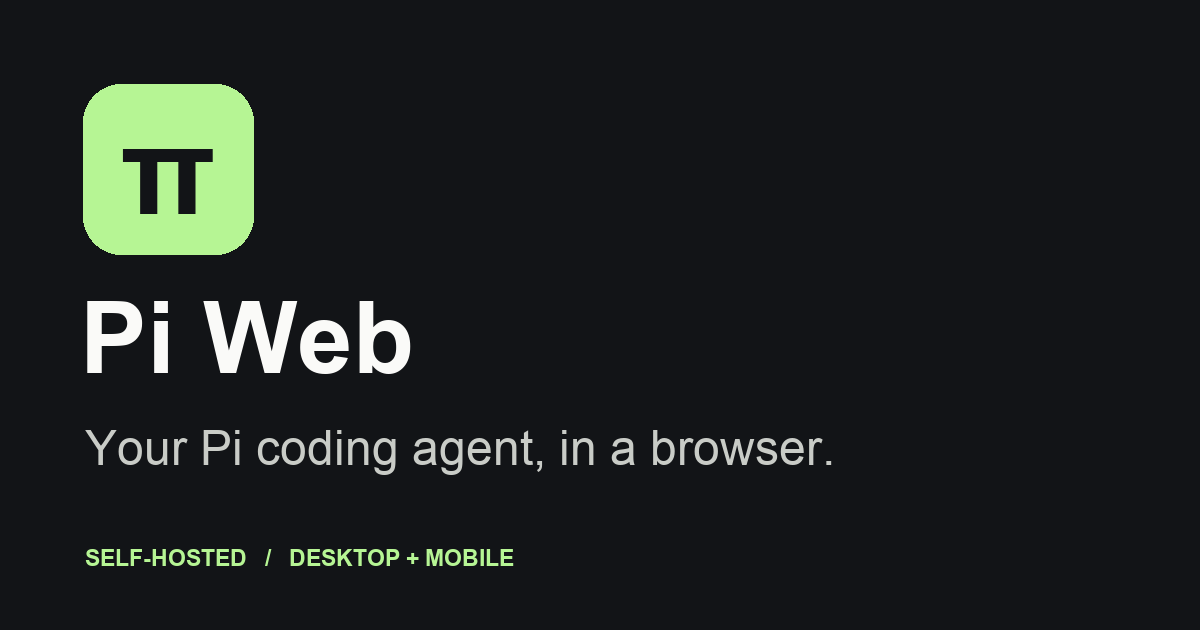
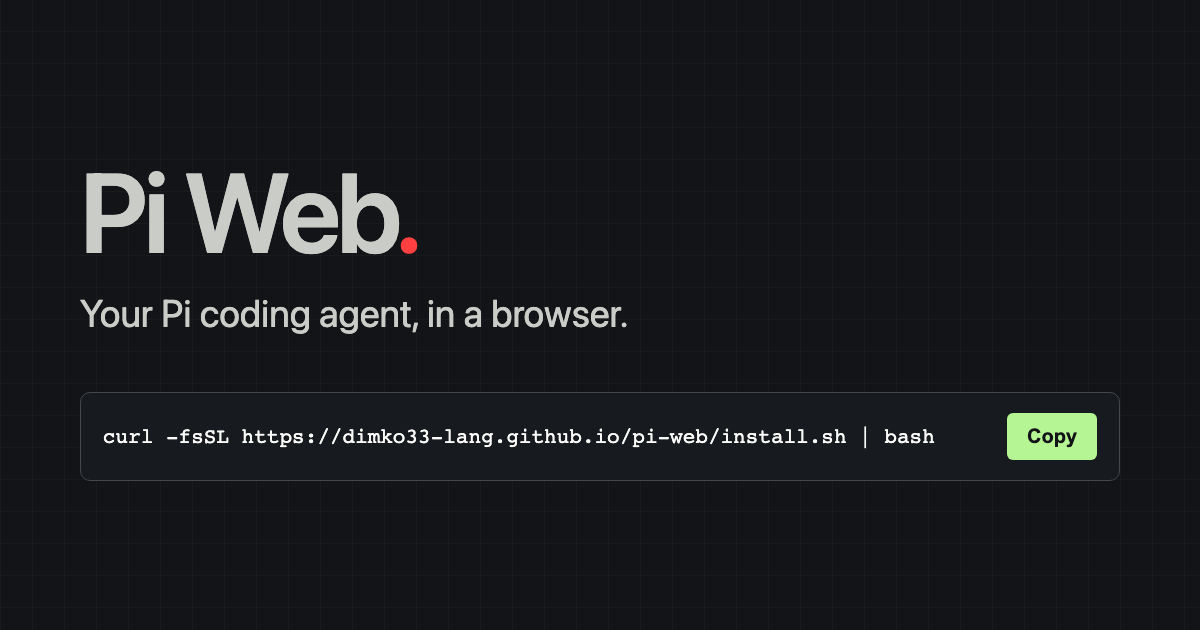
Render the share image from the public install card

diff --git a/docs/index.html b/docs/index.html
@@ -2,7 +2,9 @@
 <html lang="en"><head><meta charset="utf-8"><meta name="viewport" content="width=device-width,initial-scale=1"><title>Pi Web — your coding agent, in a browser</title>
 <meta name="description" content="Self-host a browser interface for the Pi coding agent. Open it from your laptop or phone.">
 <link rel="canonical" href="https://dimko33-lang.github.io/pi-web/">
-<meta property="og:type" content="website"><meta property="og:title" content="Pi Web"><meta property="og:description" content="Your Pi coding agent, in a browser. Self-hosted, for desktop and mobile."><meta property="og:url" content="https://dimko33-lang.github.io/pi-web/"><meta property="og:image" content="https://dimko33-lang.github.io/pi-web/social-preview.png"><meta property="og:image:type" content="image/png"><meta property="og:image:width" content="1200"><meta property="og:image:height" content="630"><meta property="og:image:alt" content="Pi Web — your Pi coding agent, in a browser."><meta name="twitter:card" content="summary_large_image"><meta name="twitter:image" content="https://dimko33-lang.github.io/pi-web/social-preview.png">
+<meta property="og:type" content="website"><meta property="og:title" content="Pi Web"><meta property="og:description" content="Your Pi coding agent, in a browser. Install it on your own machine with one command."><meta property="og:url" content="https://dimko33-lang.github.io/pi-web/">
+<meta property="og:image" content="https://dimko33-lang.github.io/pi-web/social-preview.png?v=2"><meta property="og:image:type" content="image/png"><meta property="og:image:width" content="1200"><meta property="og:image:height" content="630"><meta property="og:image:alt" content="The Pi Web installation card: the name with a red period and the one-line install command on a dark grid.">
+<meta name="twitter:card" content="summary_large_image"><meta name="twitter:image" content="https://dimko33-lang.github.io/pi-web/social-preview.png?v=2">
 <style>*{box-sizing:border-box}body{margin:0;background-color:#121417;background-image:linear-gradient(0deg,#ffffff07 1px,transparent 1px),linear-gradient(90deg,#ffffff07 1px,transparent 1px);background-size:32px 32px;color:#fafaf8;font:18px/1.55 system-ui,sans-serif}main{max-width:780px;padding:clamp(42px,10vh,120px) 24px;margin:auto}h1{font-size:clamp(30px,4vw,42px);font-weight:550;color:#c9ccc7;line-height:1.12;margin:18px 0 12px;letter-spacing:-.035em}.title-dot{color:#ff4040}p{color:#c9ccc7;max-width:55ch}.lead{font-size:clamp(18px,2.5vw,22px);margin:0}a{color:#b6f594}.button{display:inline-block;background:#b6f594;color:#121417;border-radius:8px;text-decoration:none;font-weight:650;padding:11px 18px;margin:10px 18px 10px 0}footer{margin-top:48px;color:#a2a69e;font-size:14px}footer small{display:block;margin-top:.75rem;max-width:65ch;font-size:.8125rem}.install{display:flex;align-items:center;gap:14px;border:1px solid #44484d;border-radius:10px;padding:14px;margin:26px 0 8px}.install code{flex:1;min-width:0;overflow-wrap:anywhere;font:15px/1.6 monospace}.install button{background:#b6f594;color:#121417;border:0;border-radius:6px;padding:10px 14px;font-weight:bold;cursor:pointer}.hint{font-size:14px;margin:0 0 20px}</style></head>
 <body><main><h1>Pi Web<span class="title-dot" aria-hidden="true">.</span></h1><p class="lead">Your Pi coding agent, in a browser.</p><p>Run Pi Web on your own machine and open the chat from a laptop or phone. One command prepares Pi and the web interface. No keys or login during installation. Set up your provider later in the Pi terminal.</p><div class="install"><code id="cmd">curl -fsSL https://dimko33-lang.github.io/pi-web/install.sh | bash</code><button type="button" id="copy" aria-live="polite" aria-label="Copy install command">Copy</button></div><p class="hint">On a Mac the panel opens locally. Over SSH on a fresh public server, click the private HTTPS link printed when ready. Server setup requires available, reachable ports 80 and 443. Select Nikita for profiles, or Notes for the salon.</p><script>const btn=document.querySelector('#copy'),cmd=document.querySelector('#cmd');btn.onclick=async()=>{try{await navigator.clipboard.writeText(cmd.textContent);btn.textContent='Copied!'}catch{const r=document.createRange();r.selectNodeContents(cmd);const s=getSelection();s.removeAllRanges();s.addRange(r);btn.textContent='Select & copy'}setTimeout(()=>btn.textContent='Copy',2000)};</script><a href="https://github.com/dimko33-lang/pi-web">View source</a><footer>Self-hosted · Desktop and mobile · <a href="https://github.com/dimko33-lang/pi-web/releases/tag/v0.10.7">v0.10.7 · Release notes</a> · <a href="https://t.me/SalonNikiChat">Salon Niki — Telegram demo</a> · <a href="https://github.com/dimko33-lang/pi-web/blob/main/LICENSE">MIT license</a>
 <small>Thank you, <a href="https://mariozechner.at/">Mario Zechner</a>, for building <a href="https://pi.dev/">Pi</a>. I got to work on Nikita instead of writing an agent from scratch.</small>
